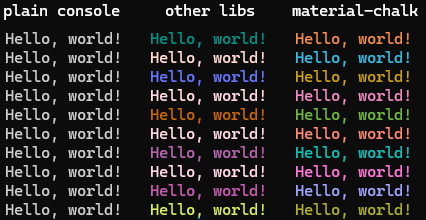
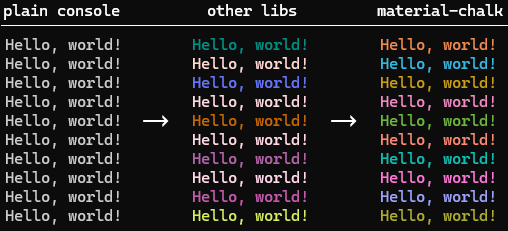
improve readability of preview image

diff --git a/README.md b/README.md
@@ -18,7 +18,7 @@ It is built using the latest Typescript and ESM standards, while being compatibl
 It is focused on being an opinionated standard to encourage consistent colors for the same namespace across different programming languages and tools, while still being composable with any frontend from [terminal-focused](https://www.npmjs.com/package/chalk) libraries to full GUI applications.
 
 <p align="center">
-  <img src="https://github.com/user-attachments/assets/9269f34d-821d-4d75-b966-b3c38e69d635" alt="lib-preview" />
+  <img src="https://github.com/user-attachments/assets/897173dc-0cfa-4c27-9443-d19b85ebf006" alt="lib-preview" />
 </p>
 
 # How to Use
